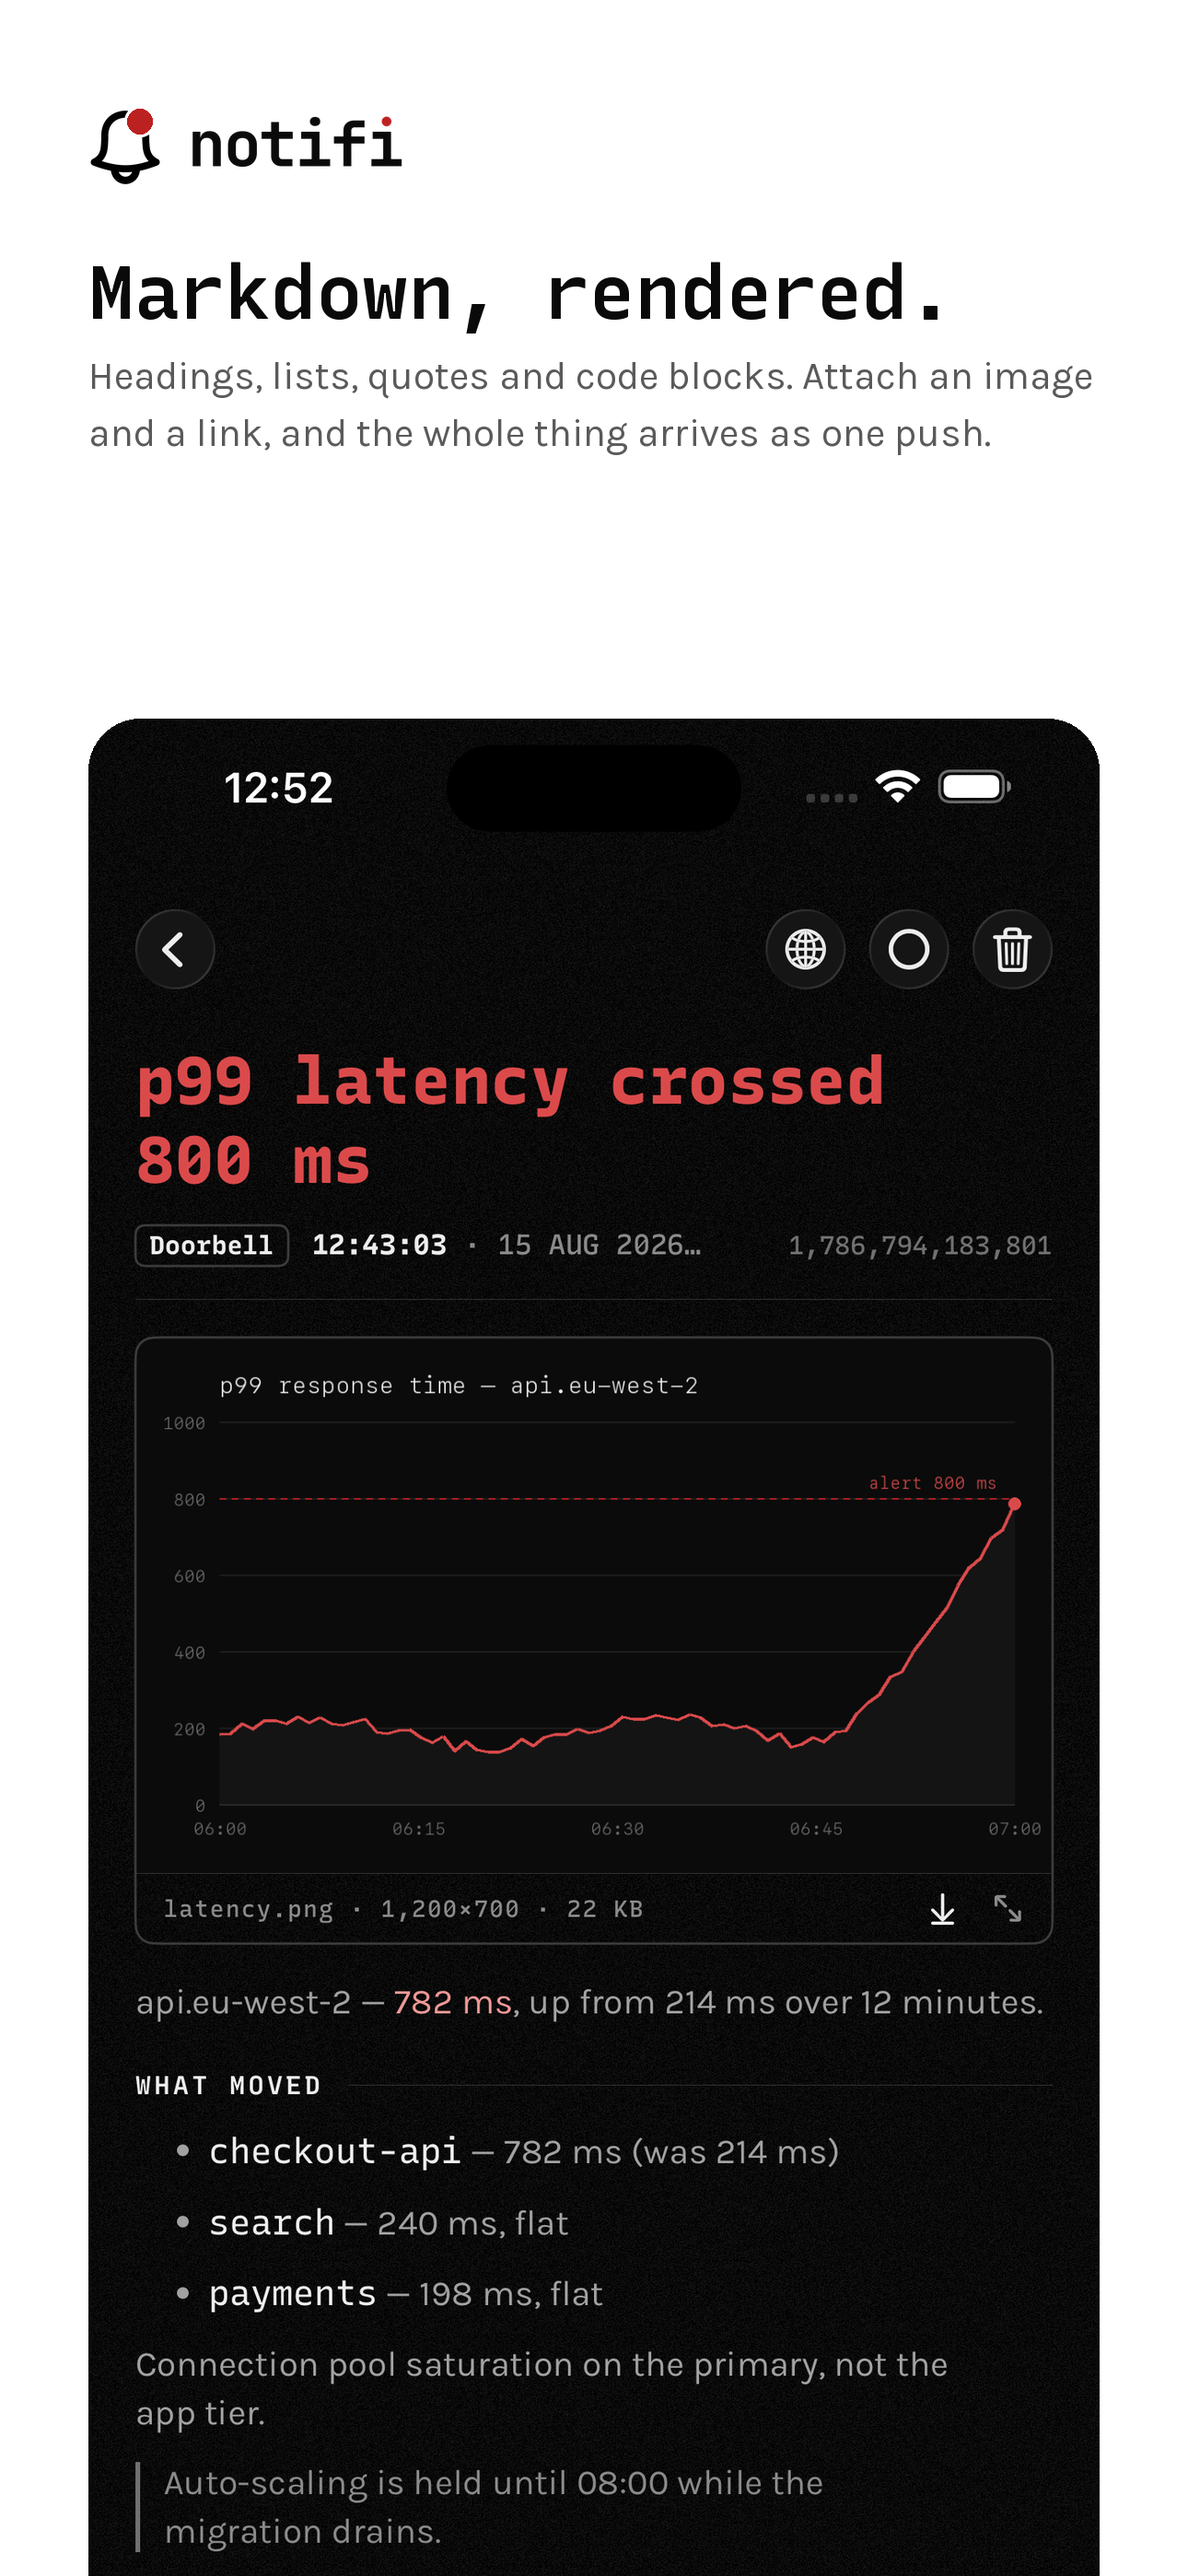
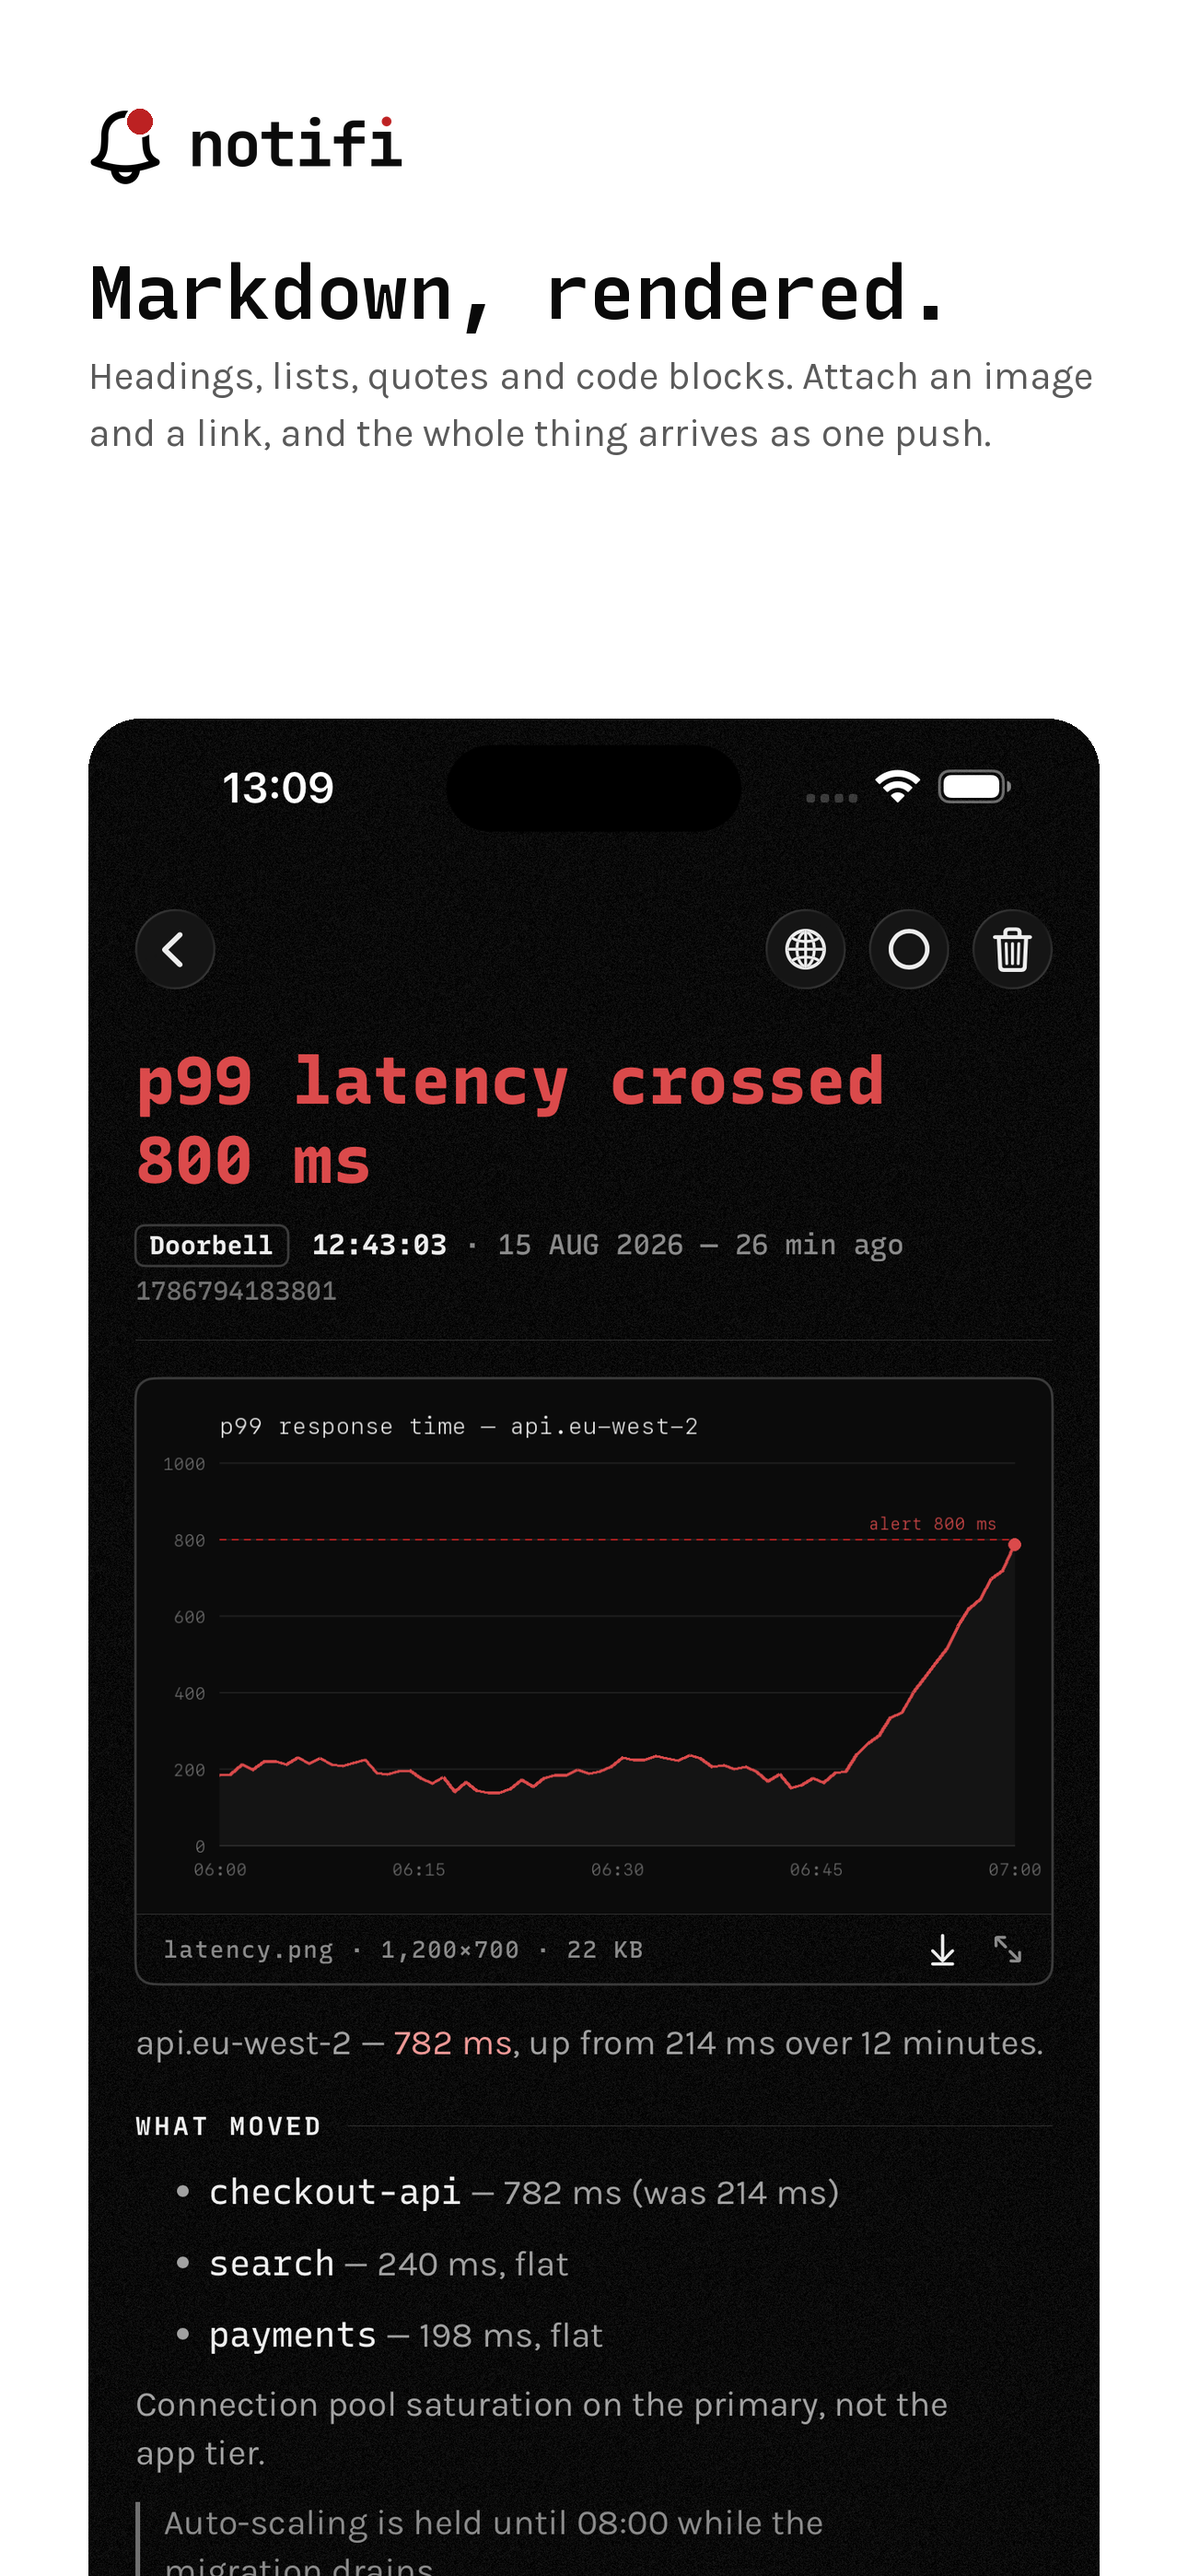
Give the epoch its own line, unlocalized (#140)
Text(Int) ran the machine timestamp through the locale and shipped
1,786,564,721,411 — grouping separators no consumer of an epoch accepts.
verbatim fixes the digits; the second line fixes the layout, where the
epoch sharing the clock's line squeezed the key chip to "Door…" and
wrapped itself ragged. The 02_message frame is regenerated.

diff --git a/apps/app/Shared/Views/MessageDetailView.swift b/apps/app/Shared/Views/MessageDetailView.swift
@@ -204,6 +204,12 @@ struct MessageDetailView: View {
     @ViewBuilder
     private func metaLine(for message: Message) -> some View {
         let basis = message.occurredAt ?? message.createdAt
+        // Two lines, not one. The chip, the wall-clock reading and the age is
+        // already a full measure on a phone; the epoch sharing their line was
+        // what wrapped it to a ragged second row and squeezed the key name to
+        // "Door…". The machine timestamp reads worse interleaved with prose
+        // anyway — it gets the line under, where 13 digits are just 13 digits.
+        VStack(alignment: .leading, spacing: 4) {
         HStack(alignment: .firstTextBaseline, spacing: 10) {
             if let keyName = keyName(for: message) {
                 Text(keyName)
@@ -229,18 +235,21 @@ struct MessageDetailView: View {
                 .monospacedDigit()
                 .lineLimit(1)
                 .truncationMode(.tail)
+        }
 
-            Spacer(minLength: 8)
-
-            let epoch = Int((basis.timeIntervalSince1970 * 1000).rounded())
-            Button { Clipboard.copy("\(epoch)") } label: {
-                Text("\(epoch)")
-                    .font(.inco(size: 11, relativeTo: .caption2))
-                    .monospacedDigit()
-                    .foregroundStyle(Theme.controlBorder)
-            }
-            .buttonStyle(.geist)
-            .accessibilityLabel(Copy.Message.copyTimestamp)
+        let epoch = Int((basis.timeIntervalSince1970 * 1000).rounded())
+        Button { Clipboard.copy("\(epoch)") } label: {
+            // verbatim: Text(Int) runs the value through the locale and
+            // ships 1,786,564,721,411 — grouping separators on a machine
+            // timestamp, which no tool that consumes one accepts.
+            Text(verbatim: "\(epoch)")
+                .font(.inco(size: 11, relativeTo: .caption2))
+                .monospacedDigit()
+                .lineLimit(1)
+                .foregroundStyle(Theme.controlBorder)
+        }
+        .buttonStyle(.geist)
+        .accessibilityLabel(Copy.Message.copyTimestamp)
         }
     }
 
